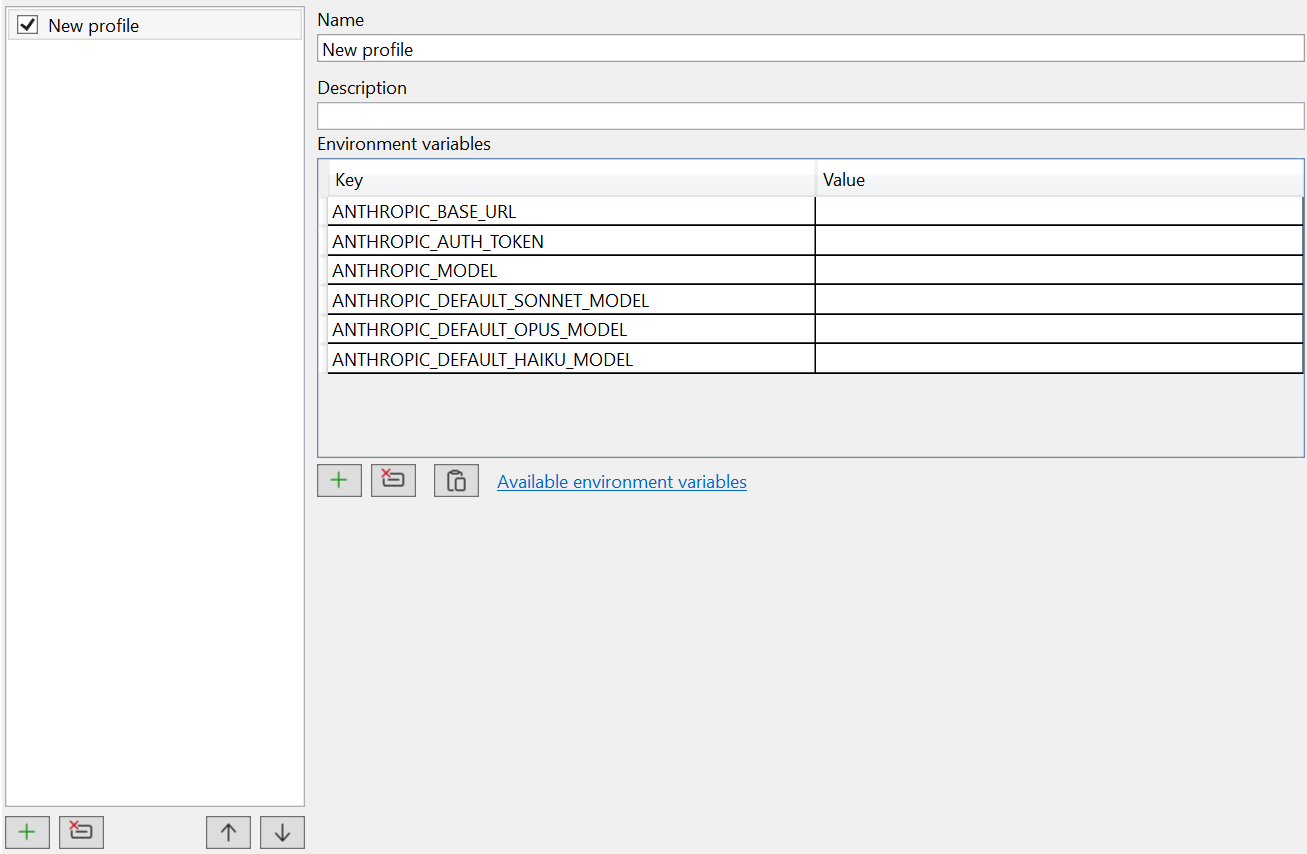
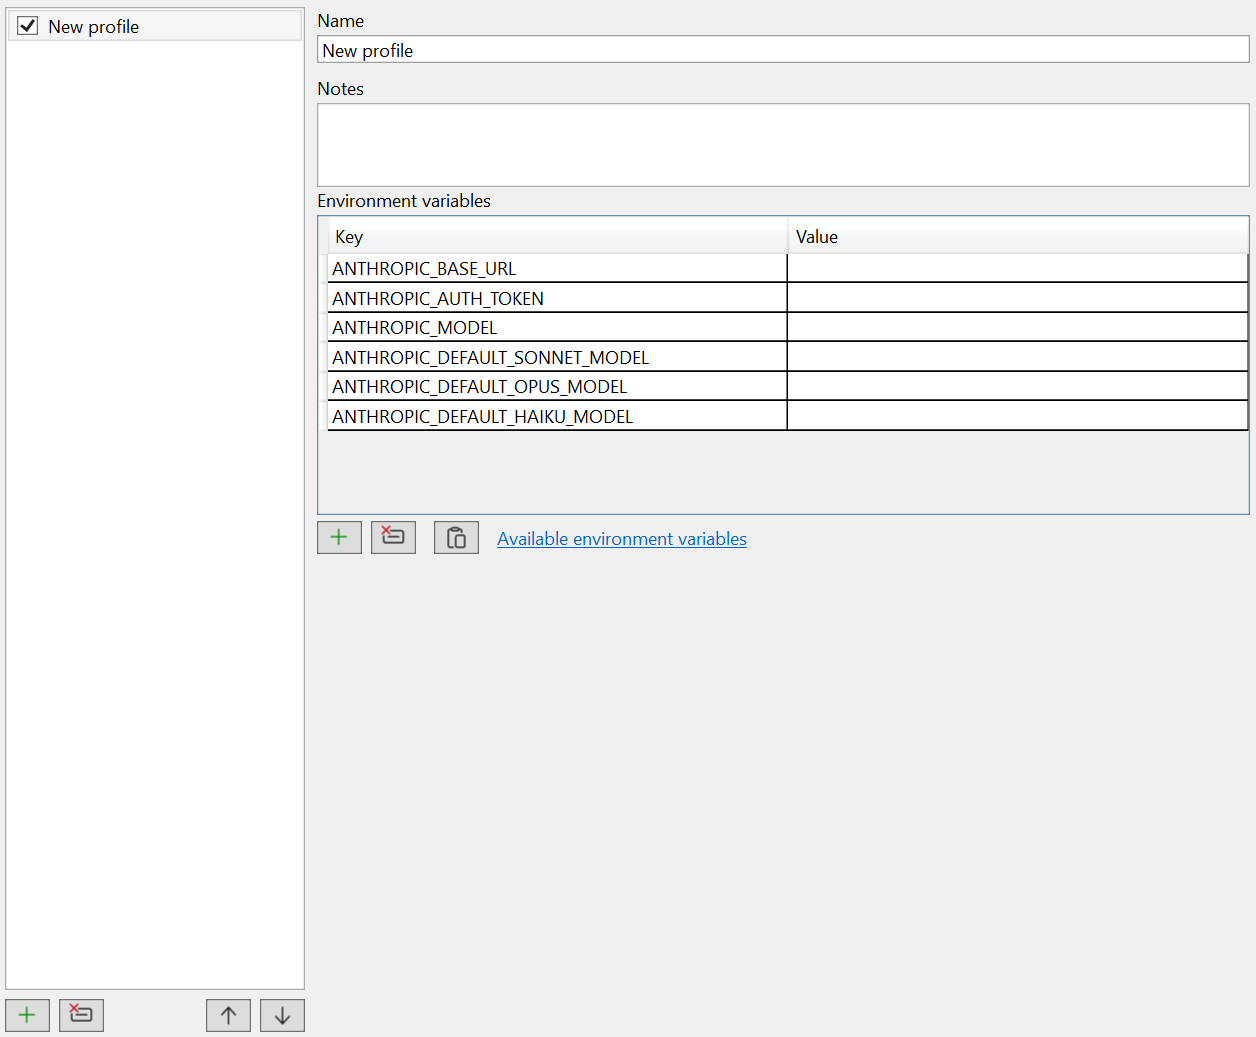
chore(release): 1.1.0 (#55)
* chore(release): 1.1.0

Twenty-four commits since 1.0.0 — six features, thirteen fixes, no breaking
change — so a minor bump. The changelog section is written for users and is
what the release workflow extracts verbatim for the GitHub release page.

Version lives in Directory.Build.props, and the VSIX manifest repeats it
because <Identity Version> is read by the VSIX build itself and nothing can
generate it; VerifyManifestVersion fails a Release build if the two drift.
Everything else derives — the assembly attributes are written by
GenerateVersionAssemblyInfo, despite the comment in the props file still
naming AssemblyInfo.cs as a place to keep in step.

The MCP server was the last thing repeating a version by hand. ServerVersion
was a const stuck at "1.0.0": nothing bumps it, no check catches it, and it
had stayed right only because it had never been bumped. It reads BuildInfo
now, which carries the suffix too, so a preview build says so in /mcp instead
of claiming to be the stable one. ServerName was the same string as
AppConstants.AppId, so it goes the same way.

* docs(readme): Requirements lists what the reader has to supply

Four rows, two of which no one can act on: Windows is implied by VS 2022, and
.NET Framework 4.8 said of itself that it is "already present on any machine
running VS 2022". The manifest agrees — 4.8 is a Dependency, which VS resolves,
not a Prerequisite. What was buried in a parenthesis on the OS row is the one
[…]

diff --git a/src/Corsinvest.VisualStudio.Agents/Mcp/JsonRpcDispatcher.cs b/src/Corsinvest.VisualStudio.Agents/Mcp/JsonRpcDispatcher.cs
@@ -19,10 +19,6 @@ internal sealed class JsonRpcDispatcher
     /// <summary>MCP protocol version we implement; sent in the <c>initialize</c> response.</summary>
     private const string ProtocolVersion = "2024-11-05";
 
-    /// <summary>Server name shown in the CLI's <c>/mcp</c>. Keep stable; bump the version field instead.</summary>
-    private const string ServerName = "cv4vs-agents";
-    private const string ServerVersion = "1.0.0";
-
     private readonly Dictionary<string, IMcpTool> _tools;
 
     /// <summary>camelCase serializer matching the MCP wire format the CLI expects; PascalCase POCOs
@@ -96,7 +92,11 @@ internal sealed class JsonRpcDispatcher
         {
             tools = new { listChanged = false },
         },
-        serverInfo = new { name = ServerName, version = ServerVersion },
+        serverInfo = new
+        {
+            name = AppConstants.AppId,
+            version = BuildInfo.Version
+        },
     };
 
     private object BuildToolsList()

diff --git a/CHANGELOG.md b/CHANGELOG.md
@@ -6,6 +6,130 @@ The format is based on [Keep a Changelog](https://keepachangelog.com/en/1.0.0/).
 
 ## [Unreleased]
 
+## [1.1.0] - 2026-07-31
+
+A pass over the chat's composer, the permission modes, and the sub-agents — plus the panes finally
+behaving like the rest of the IDE's windows.
+
+### Added
+
+- **Back to the latest message**: scrolling up during a turn no longer means scrolling all the way
+  down again. A button appears once you are far enough up, and goes away when you are back.
+
+- **Clicking an edit selects the lines that changed**, not just the file. The range comes from the
+  patch the CLI itself computed, so it is right even after the edit has landed and the file has
+  moved on.
+
+- **Active sessions in the menu**: View → cv4vs Agents now lists the open panes by their full title,
+  session and profile included. Docked panes hide each other behind tabs captioned "Chat 1"/"Chat 2",
+  and this is the way to tell them apart and to reach one that drifted behind its siblings.
+
+- **The session info dialog names the processes behind the pane** — the CLI's own PID for both pane
+  kinds, and for the chat the WebView2 browser plus the renderer that pane actually runs in, matched
+  by frame rather than guessed from a list. A new option adds the WebView DevTools and the browser's
+  task manager to the "More" menu on stable builds, for when a chat renders wrongly and the browser
+  console is the only way to find out why.
+
+- **Bypass permissions can be chosen** from the composer and set as a profile's initial mode, gated
+  on a new "Allow dangerously skip permissions" option — and on the CLI's own policy, which an
+  organisation can impose.
+
+- **Written files are syntax-highlighted** by their extension, including the ones the .NET world
+  uses (`csproj`, `xaml`, `props`, `targets`, `resx`, `vsct`, `psm1`, `psd1`).
+
+- A profile's **Description is now multi-line Notes** — what the account is, when the token expires,
+  why the profile exists.
+
+### Changed
+
+- **The composer is one row again.** Attach, commands and the file in context on the left — what
+  goes into the message; model, effort, permission mode and send on the right — how and when it
+  leaves. The mode names are shorter, so it all fits in a docked pane.
+
+- **Statistics, Usage and Context usage are tool windows**, not document tabs. None of them owns a
+  file, and each used to write an empty placeholder to disk purely to have something to open.
+
+- **The context gauge and the effort control open menus** like everything else in the composer,
+  instead of hand-written panels of their own.
+
+- **The eye on the context chip appears only when sharing is paused.** Sharing is the ordinary state
+  and needs no badge; not sharing is the exception, and without a mark a chip carrying a file name
+  reads as "this goes with your message" when it doesn't. The tooltips say what happens rather than
+  naming the machinery — "File.cs goes with every message".
+
+- **`Write` shows the file, not a diff.** A diff where every line is an addition distinguishes
+  nothing; the header now carries the size instead, the way `Read` shows its line range.
+
+- **A sub-agent's report reads as a report** — rendered as markdown, untruncated, with its file
+  links opening in the editor.
+
+- Tool output gained back the 52px of width that the IN/OUT gutter was spending on two three-letter
+  words — width being what a docked pane hasn't got.
+
+### Fixed
+
+- **Adding a project to the solution cost you the conversation.** Visual Studio reloads the solution
+  whenever the `.sln`/`.slnx` changes on disk, and the panes were closed on the way down — taking
+  the running `claude.exe`, and the turn in flight, with them. Nothing in the SDK distinguishes a
+  reload from a real close at the time it happens, so the close is now deferred: the panes go out of
+  sight immediately but stay alive, and come back where they were if the same solution returns.
+
+- **A closed chat pane left its renderer running.** The WebView2 control was never disposed, so the
+  browser accumulated one renderer process per pane ever opened, for the lifetime of the IDE.
+
+- **Panes vanished when the debugger started.** Visual Studio keeps a separate window layout for
+  run time, and a pane opened while writing code was simply absent from it. They now come back, and
+  dock against windows VS owns — Chat beside Solution Explorer, CLI beside Output.
+
+- **In Bypass, Claude could not ask you anything.** The flag that registers the question tool was
+  withheld in that mode, so the model did not merely lose the right to ask — it lost the tool. Turns
+  ended successfully with nothing surfaced.
+
+- **Shift+Tab in Bypass threw you into the most restrictive mode.** It cycled a hand-written list
+  that honoured none of the gates the rest of the UI applies.
+
+- **A permission mode that failed to change still showed as changed** — you would believe you were
+  in Plan while the CLI wrote. The same applied to the model. Both now roll back on failure.
+
+- **A nested sub-agent opened its parent's transcript** when expanded, and its own tools could not
+  be loaded at all.
+
+- **A sub-agent that failed left its row green.** The row settled on launch metadata, which is never
+  an error; the real outcome arrives later and was being dropped.
+
+- **Answering a permission closed whatever diff you had open**, including one you opened yourself.
+  Diffs are now identified by the tool call they preview rather than by being the most recent.
+
+- **Icons, themes and the light theme in general**: file icons kept the theme they were first drawn
+  under; a new pane opened dark whatever theme VS was in; the hover on every icon button was
+  invisible on light; the effort slider was styled with tokens that only exist in VS Code's webview
+  and had never been wired to our theme at all.
+
+- **A file link VS won't open now says so** instead of doing nothing — a `.csproj` the solution
+  already owns cannot be opened as a document, and the failure went nowhere.
+
+- **The context gauge gave up before a resuming CLI could answer.** On a large transcript the reply
+  arrived correct and complete, fifty seconds after a ten-second timeout.
+
+- Clicking into a pane left its OS balloon toast on screen after the in-IDE notice had gone.
+
+- The Sessions list counted every `.jsonl` the CLI had ever opened — sessions where nothing was ever
+  asked, and sub-agent transcripts — which is why it read as a wall of dates.
+
+- The image lightbox opened far wider than the image inside it.
+
+- The "x ago" stamp on a message never updated; it now refreshes when the pointer reaches it.
+
+- The effort popover grew off the edge of the composer, and its slider's fill stopped short of its
+  own track.
+
+- A failed turn drew two red rails a few pixels apart.
+
+- WebView DevTools disappeared from development builds when the 1.0.0 release dropped its
+  `-rc1` suffix.
+
+- A file type VS declines to rasterise (`.sh`) showed a broken-image glyph.
+
 ## [1.0.0] - 2026-07-27
 
 First stable release. Everything from the preview, plus the work below.

diff --git a/README.md b/README.md
@@ -43,9 +43,7 @@ in either, or in VS Code.*
 
 | | |
 |---|---|
-| **Visual Studio** | 2022 or 2026 (17.0+) — Community, Professional or Enterprise |
-| **OS** | Windows (the CLI pane uses ConPTY, Windows 10 1809+) |
-| **.NET Framework** | 4.8 (already present on any machine running VS 2022) |
+| **Visual Studio** | 2022 or 2026 (17.0+), any edition — on Windows 10 1809 or later |
 | **Claude Code CLI** | installed separately — see below |
 
 ---
